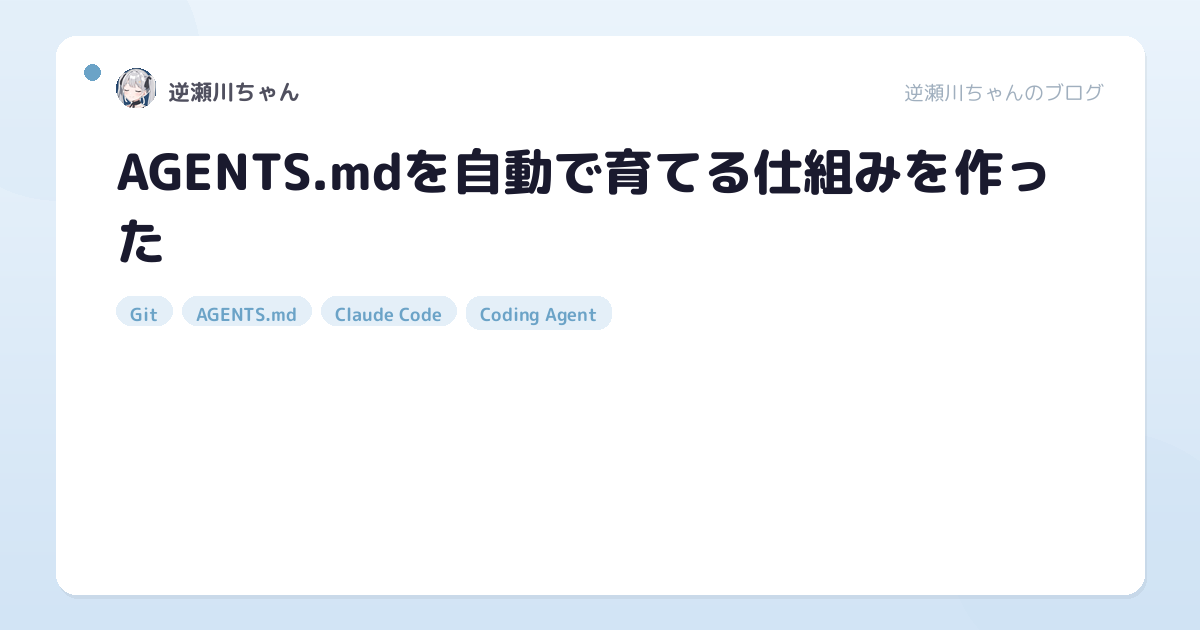
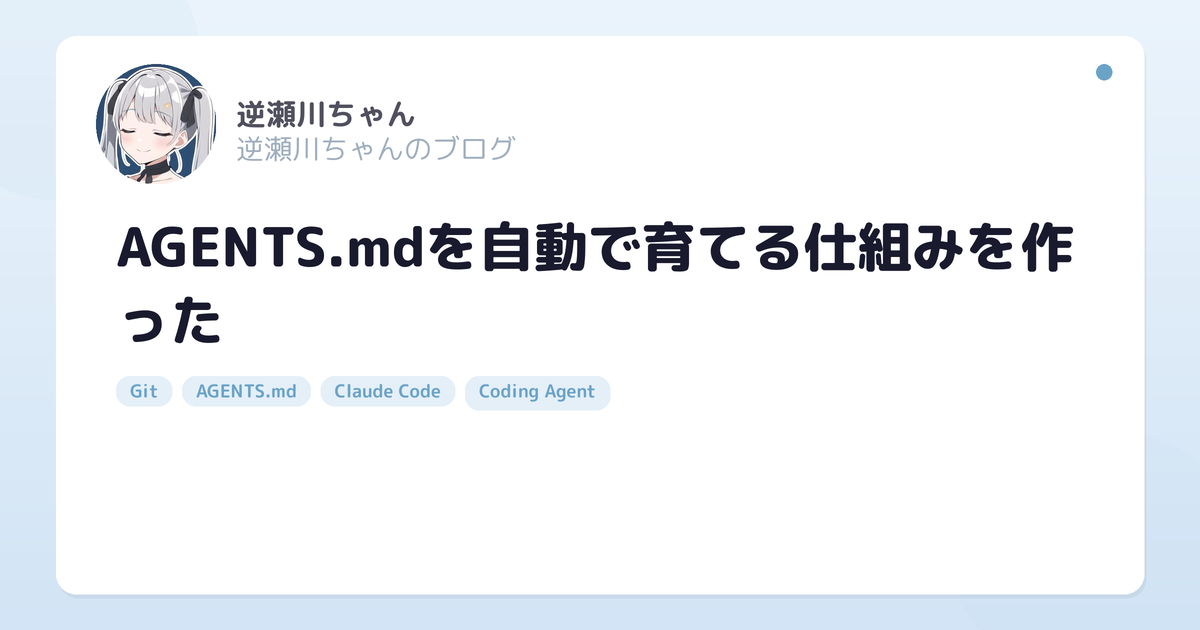
Improve OG meta tags and regenerate OG images with better quality
- Add og:image:width/height/type and twitter:image meta tags
- Change og:type from "website" to "article" for blog posts
- Enlarge avatar (40→120px), author name (22→30pt), blog name (20→28pt)
- Increase title font size by 4pt (50→54pt)
- Use 2x supersampling for smooth anti-aliased rendering
- Fix tag pill vertical text alignment using getbbox offsets

Changed region(s): [[0.0617, 0.0905, 0.8942, 0.5429], [0.0925, 0.573, 0.5242, 0.6635], [0.74, 0.0905, 0.925, 0.181]]

diff --git a/_config.ts b/_config.ts
@@ -58,6 +58,39 @@ site.process([".html"], (pages) => {
         link.setAttribute("rel", "noopener noreferrer");
       }
     });
+
+    const head = doc.querySelector("head");
+    if (!head) continue;
+
+    // Change og:type to "article" for blog posts
+    const isPost = page.data.url?.startsWith("/posts/");
+    if (isPost) {
+      const ogType = head.querySelector("meta[property='og:type']");
+      if (ogType) {
+        ogType.setAttribute("content", "article");
+      }
+    }
+
+    // Add og:image dimensions and twitter:image
+    const ogImage = head.querySelector("meta[property='og:image']");
+    if (ogImage) {
+      const imageUrl = ogImage.getAttribute("content");
+
+      const addMeta = (attr: string, key: string, value: string) => {
+        const meta = doc.createElement("meta");
+        meta.setAttribute(attr, key);
+        meta.setAttribute("content", value);
+        ogImage.after(meta);
+      };
+
+      addMeta("property", "og:image:width", "1200");
+      addMeta("property", "og:image:height", "630");
+      addMeta("property", "og:image:type", "image/png");
+
+      if (imageUrl && !head.querySelector("meta[name='twitter:image']")) {
+        addMeta("name", "twitter:image", imageUrl);
+      }
+    }
   }
 });
 

diff --git a/scripts/gen-og-images.py b/scripts/gen-og-images.py
@@ -88,45 +88,51 @@ def wrap_title(title: str, font: ImageFont.FreeTypeFont, max_width: int) -> list
 
 
 def generate_card(title: str, tags: list[str], output_path: Path):
-    """Generate a single OG card image with Soft Blue design."""
-    # Load fonts
-    font_title = ImageFont.truetype(str(FONTS_DIR / "MPLUSRounded1c-ExtraBold.ttf"), 50)
-    font_tag = ImageFont.truetype(str(FONTS_DIR / "MPLUSRounded1c-Bold.ttf"), 18)
-    font_author = ImageFont.truetype(str(FONTS_DIR / "MPLUSRounded1c-Bold.ttf"), 22)
-    font_blog = ImageFont.truetype(str(FONTS_DIR / "MPLUSRounded1c-Regular.ttf"), 20)
+    """Generate a single OG card image with Soft Blue design.
+
+    Renders at 2x resolution then downscales for smooth anti-aliasing.
+    """
+    S = 2  # supersampling scale
+    W, H = WIDTH * S, HEIGHT * S
+
+    # Load fonts (at 2x size)
+    font_title = ImageFont.truetype(str(FONTS_DIR / "MPLUSRounded1c-ExtraBold.ttf"), 54 * S)
+    font_tag = ImageFont.truetype(str(FONTS_DIR / "MPLUSRounded1c-Bold.ttf"), 18 * S)
+    font_author = ImageFont.truetype(str(FONTS_DIR / "MPLUSRounded1c-Bold.ttf"), 30 * S)
+    font_blog = ImageFont.truetype(str(FONTS_DIR / "MPLUSRounded1c-Regular.ttf"), 28 * S)
 
     # --- Background: vertical blue gradient ---
-    img = Image.new("RGB", (WIDTH, HEIGHT), WHITE)
-    for y in range(HEIGHT):
-        t = y / HEIGHT
+    img = Image.new("RGB", (W, H), WHITE)
+    for y in range(H):
+        t = y / H
         r = int(BG_TOP[0] + (BG_BOTTOM[0] - BG_TOP[0]) * t)
         g = int(BG_TOP[1] + (BG_BOTTOM[1] - BG_TOP[1]) * t)
         b = int(BG_TOP[2] + (BG_BOTTOM[2] - BG_TOP[2]) * t)
-        for x in range(WIDTH):
+        for x in range(W):
             img.putpixel((x, y), (r, g, b))
 
     # --- Decorative circles (subtle background) ---
-    overlay = Image.new("RGBA", (WIDTH, HEIGHT), (0, 0, 0, 0))
+    overlay = Image.new("RGBA", (W, H), (0, 0, 0, 0))
     odraw = ImageDraw.Draw(overlay)
-    odraw.ellipse([-80, -80, 200, 200], fill=CIRCLE_DECO)
-    odraw.ellipse([WIDTH - 250, HEIGHT - 200, WIDTH + 50, HEIGHT + 50], fill=CIRCLE_DECO)
+    odraw.ellipse([-80 * S, -80 * S, 200 * S, 200 * S], fill=CIRCLE_DECO)
+    odraw.ellipse([W - 250 * S, H - 200 * S, W + 50 * S, H + 50 * S], fill=CIRCLE_DECO)
     img_rgba = img.convert("RGBA")
     img_rgba = Image.alpha_composite(img_rgba, overlay)
     img = img_rgba.convert("RGB")
     draw = ImageDraw.Draw(img)
 
     # --- White card with shadow ---
-    card_mx, card_my = 56, 36
+    card_mx, card_my = 56 * S, 36 * S
     cx, cy = card_mx, card_my
-    cw = WIDTH - card_mx * 2
-    ch = HEIGHT - card_my * 2
-    radius = 20
+    cw = W - card_mx * 2
+    ch = H - card_my * 2
+    radius = 20 * S
 
     # Shadow
-    shadow = Image.new("RGBA", (WIDTH, HEIGHT), (0, 0, 0, 0))
+    shadow = Image.new("RGBA", (W, H), (0, 0, 0, 0))
     sdraw = ImageDraw.Draw(shadow)
     sdraw.rounded_rectangle(
-        [cx + 2, cy + 4, cx + cw + 2, cy + ch + 4],
+        [cx + 2 * S, cy + 4 * S, cx + cw + 2 * S, cy + ch + 4 * S],
         radius=radius, fill=(0, 0, 0, 12),
     )
     img_rgba = img.convert("RGBA")
@@ -137,39 +143,45 @@ def generate_card(title: str, tags: list[str], output_path: Path):
     # Card body
     draw.rounded_rectangle([cx, cy, cx + cw, cy + ch], radius=radius, fill=WHITE)
 
-    # --- Blue accent dot (top-left of card) ---
-    dot_r = 8
+    # --- Blue accent dot (top-right of card) ---
+    dot_r = 8 * S
     draw.ellipse(
-        [cx + 28, cy + 28, cx + 28 + dot_r * 2, cy + 28 + dot_r * 2],
+        [cx + cw - 48 * S, cy + 28 * S, cx + cw - 48 * S + dot_r * 2, cy + 28 * S + dot_r * 2],
         fill=ACCENT_BLUE,
     )
 
     # --- Author avatar + name (top-left inside card) ---
-    author_x = cx + 60
-    author_y = cy + 32
+    avatar_size = 120 * S
+    author_x = cx + 40 * S
+    author_y = cy + 28 * S
     if ICON_PATH.exists():
         try:
             avatar = Image.open(ICON_PATH).convert("RGBA")
-            avatar = avatar.resize((40, 40), Image.LANCZOS)
-            mask = Image.new("L", (40, 40), 0)
-            ImageDraw.Draw(mask).ellipse([0, 0, 40, 40], fill=255)
+            avatar = avatar.resize((avatar_size, avatar_size), Image.LANCZOS)
+            mask = Image.new("L", (avatar_size, avatar_size), 0)
+            ImageDraw.Draw(mask).ellipse([0, 0, avatar_size, avatar_size], fill=255)
             img.paste(avatar.convert("RGB"), (author_x, author_y), mask)
             draw = ImageDraw.Draw(img)
         except Exception:
             pass
-    draw.text((author_x + 52, author_y + 8), AUTHOR, font=font_author, fill=TEXT_AUTHOR)
 
-    # --- Blog name (top-right inside card) ---
+    # Author name + blog name (right of avatar, stacked vertically)
+    text_x = author_x + avatar_size + 20 * S
+    author_bbox = font_author.getbbox(AUTHOR)
+    author_h = author_bbox[3] - author_bbox[1]
     blog_bbox = font_blog.getbbox(BLOG_NAME)
-    blog_w = blog_bbox[2] - blog_bbox[0]
-    draw.text((cx + cw - 40 - blog_w, author_y + 10), BLOG_NAME, font=font_blog, fill=TEXT_BLOG)
+    blog_h = blog_bbox[3] - blog_bbox[1]
+    total_text_h = author_h + 8 * S + blog_h
+    text_top_y = author_y + (avatar_size - total_text_h) // 2
+    draw.text((text_x, text_top_y), AUTHOR, font=font_author, fill=TEXT_AUTHOR)
+    draw.text((text_x, text_top_y + author_h + 8 * S), BLOG_NAME, font=font_blog, fill=TEXT_BLOG)
 
-    # --- Title (upper-center inside card) ---
-    title_x = cx + 60
-    title_max_w = cw - 120
+    # --- Title (below avatar area) ---
+    title_x = cx + 60 * S
+    title_max_w = cw - 120 * S
     lines = wrap_title(title, font_title, title_max_w)
-    line_height = 70
-    title_start_y = cy + 100
+    line_height = 74 * S
+    title_start_y = author_y + avatar_size + 24 * S
 
     for i, line in enumerate(lines):
         draw.text(
@@ -179,21 +191,29 @@ def generate_card(title: str, tags: list[str], output_path: Path):
 
     # --- Tags (below title) ---
     total_title_h = len(lines) * line_height
-    tag_y = title_start_y + total_title_h + 20
+    tag_y = title_start_y + total_title_h + 20 * S
     tag_x = title_x
     for tag_text in tags[:5]:
         bbox = font_tag.getbbox(tag_text)
-        tw = bbox[2] - bbox[0]
-        th = bbox[3] - bbox[1]
-        pad_x, pad_y = 14, 7
-        if tag_x + tw + pad_x * 2 > cx + cw - 40:
+        t_left, t_top, t_right, t_bottom = bbox
+        tw = t_right - t_left
+        th = t_bottom - t_top
+        pad_x, pad_y = 14 * S, 8 * S
+        box_w = tw + pad_x * 2
+        box_h = th + pad_y * 2
+        if tag_x + box_w > cx + cw - 40 * S:
             break
         draw.rounded_rectangle(
-            [tag_x, tag_y, tag_x + tw + pad_x * 2, tag_y + th + pad_y * 2],
-            radius=14, fill=TAG_BG,
+            [tag_x, tag_y, tag_x + box_w, tag_y + box_h],
+            radius=14 * S, fill=TAG_BG,
         )
-        draw.text((tag_x + pad_x, tag_y + pad_y - 2), tag_text, font=font_tag, fill=TAG_FG)
-        tag_x += tw + pad_x * 2 + 10
+        # Center text vertically within the pill
+        text_y = tag_y + pad_y - t_top
+        draw.text((tag_x + pad_x - t_left, text_y), tag_text, font=font_tag, fill=TAG_FG)
+        tag_x += box_w + 10 * S
+
+    # Downscale to final size for smooth anti-aliasing
+    img = img.resize((WIDTH, HEIGHT), Image.LANCZOS)
 
     # Save
     output_path.parent.mkdir(parents=True, exist_ok=True)
